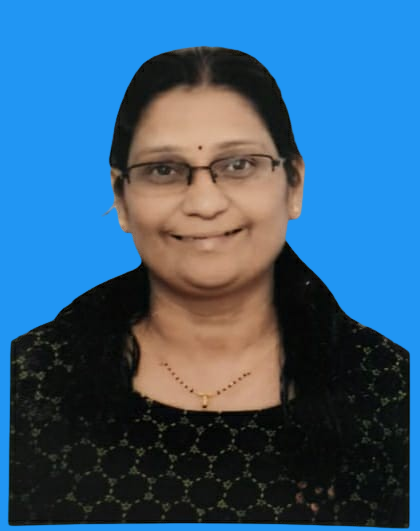
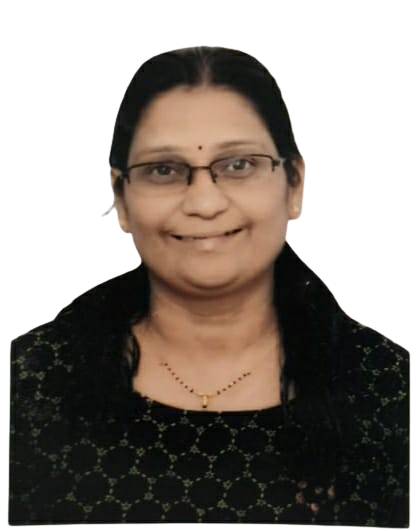
background color chnaged

diff --git a/src/pages/Margdarshak.jsx b/src/pages/Margdarshak.jsx
@@ -1,7 +1,7 @@
 import React from "react";
 import { motion } from "framer-motion";
 import seema from "../assets/images/seema.png";
-import bheem from "../assets/images/bheem.jpeg";
+import bheem from "../assets/images/bheem.png";
 
 export default function Margdarshak() {
   const officers = [
@@ -21,7 +21,7 @@ export default function Margdarshak() {
 
   return (
     <motion.div
-      className="p-6"
+      className="p-6 bg-blue-300"
       initial={{ opacity: 0 }}
       animate={{ opacity: 1 }}
       transition={{ duration: 0.8 }}
@@ -39,7 +39,7 @@ export default function Margdarshak() {
         {officers.map((officer, index) => (
           <motion.div
             key={index}
-            className="bg-white shadow-2xl hover:shadow-blue-300  overflow-hidden transition-all duration-300 hover:scale-105 lg:mx-8 p-4 rounded-2xl"
+            className="bg-white/70 shadow-xl hover:shadow-blue-300 overflow-hidden transition-all duration-300 hover:scale-105 lg:mx-8 p-4 rounded-2xl backdrop-blur-md"
             initial={{ opacity: 0, x: index % 2 === 0 ? -50 : 50 }}
             whileInView={{ opacity: 1, x: 0 }}
             viewport={{ once: true, amount: 0.3 }}
@@ -48,7 +48,7 @@ export default function Margdarshak() {
             <img
               src={officer.image}
               alt={officer.name}
-              className="w-full h-100 object-fill border-4 rounded-2xl"
+              className="w-full h-100 object-fill border-4 rounded-2xl border-black-200"
             />
             <div className="p-4 text-center">
               <h2 className="text-xl font-semibold text-gray-800 mb-2">
